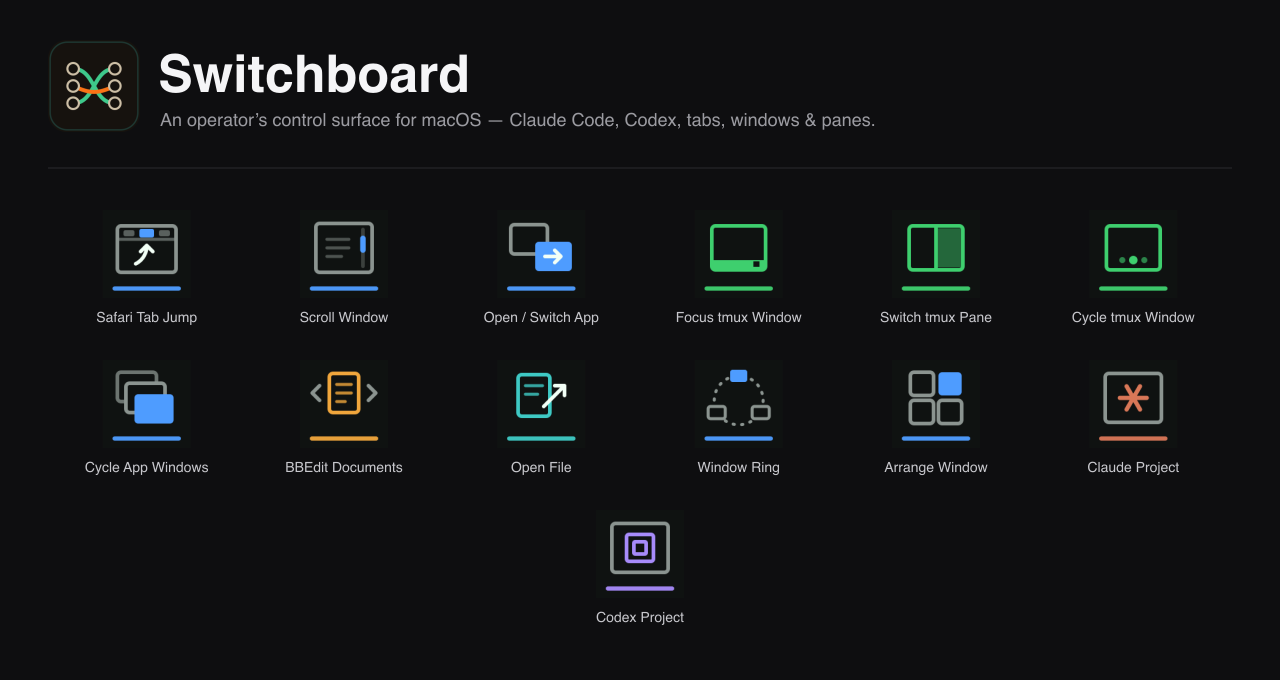
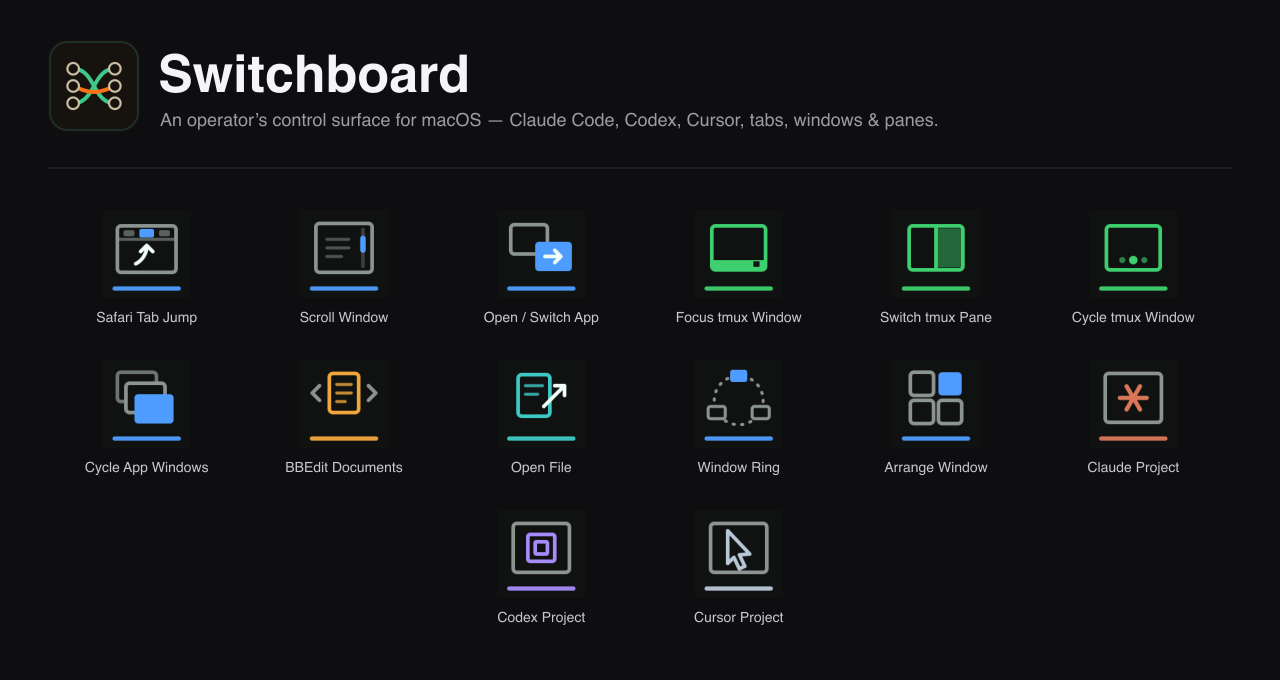
docs: document Cursor Project and the traps it exposed
README: fourteen actions, a Cursor CLI entry, and an explicit statement of
the one honest limit — amber is tmux-only, because Cursor writes nothing
to disk that separates "waiting for your approval" from "still thinking".
Hero regenerated from the manifest, subtitle updated. Test count 528.

CLAUDE.md records the gotchas that cost the most time, so the next agent
does not rediscover them: the truncated `ps -o comm=`, the worker child
that masquerades as a second session, the append-after-execution
transcript, the lossy truncated-with-hash project folder names, and the
fact that a scan defaulting to a path under ~ is untestable — the first
cursor-scan tests silently read the operator's real ~/.cursor and passed
on live data.

Claude-Session: https://claude.ai/code/session_01MxdqxTZqV1P1hQimSUKL1H

Changed region(s): [[0.375, 0.7412, 0.625, 0.9265], [0.5312, 0.1544, 0.7188, 0.1853]]

diff --git a/scripts/make-hero.py b/scripts/make-hero.py
@@ -58,7 +58,7 @@ def main() -> None:
         f'<image x="{PAD}" y="40" width="92" height="92" href="{header_icon}"/>',
         f'<text x="{PAD + 110}" y="92" fill="#f5f5f7" font-size="52" font-weight="700">Switchboard</text>',
         f'<text x="{PAD + 112}" y="126" fill="#9b9ba1" font-size="18">'
-        "An operator&#8217;s control surface for macOS — Claude Code, Codex, tabs, windows &amp; panes.</text>",
+        "An operator&#8217;s control surface for macOS — Claude Code, Codex, Cursor, tabs, windows &amp; panes.</text>",
         f'<line x1="{PAD}" y1="168" x2="{W - PAD}" y2="168" stroke="#2a2a2e" stroke-width="1"/>',
     ]
 

diff --git a/README.md b/README.md
@@ -1,10 +1,10 @@
 # Switchboard
 
-![Switchboard — a macOS Stream Deck plugin with thirteen actions: live Claude Code and Codex project keys, Safari tabs, windows, apps, tmux/iTerm2 panes, BBEdit documents, files, and window tiling](docs/switchboard-hero.png)
+![Switchboard — a macOS Stream Deck plugin with fourteen actions: live Claude Code, Codex, and Cursor project keys, Safari tabs, windows, apps, tmux/iTerm2 panes, BBEdit documents, files, and window tiling](docs/switchboard-hero.png)
 
-*An operator's control surface for macOS — routing your attention across Claude Code and Codex sessions, tabs, windows, panes, apps, documents, and files from a Stream Deck.*
+*An operator's control surface for macOS — routing your attention across Claude Code, Codex, and Cursor sessions, tabs, windows, panes, apps, documents, and files from a Stream Deck.*
 
-Ever lose a beat hunting for the right tab or window? Tactile switches beat hunting-and-clicking. Switchboard is a **macOS Stream Deck plugin** for fast context-switching: keep an eye on your **Claude Code** and **Codex CLI** projects from the deck, see whether each needs you, and press to raise its exact terminal session. Jump to **Safari** tabs (with multi-account **Gmail**/**Calendar** presets), switch and cycle **app windows**, tile and ring **windows**, drive **tmux** windows and panes (raising the right **iTerm2** window as you go), move between **BBEdit** documents, and open files by wildcard pattern — all from Stream Deck keys and dials.
+Ever lose a beat hunting for the right tab or window? Tactile switches beat hunting-and-clicking. Switchboard is a **macOS Stream Deck plugin** for fast context-switching: keep an eye on your **Claude Code**, **Codex CLI**, and **Cursor CLI** projects from the deck, see whether each needs you, and press to raise its exact terminal session. Jump to **Safari** tabs (with multi-account **Gmail**/**Calendar** presets), switch and cycle **app windows**, tile and ring **windows**, drive **tmux** windows and panes (raising the right **iTerm2** window as you go), move between **BBEdit** documents, and open files by wildcard pattern — all from Stream Deck keys and dials.
 
 ---
 
@@ -20,13 +20,16 @@ Read the full story in the flagship essay → [I Directed an AI to Ship Real Sof
 
 ## What it does
 
-Thirteen actions, grouped by what they route your attention to.
+Fourteen actions, grouped by what they route your attention to.
 
 **Claude Code**
 - **Claude Project** *(key)* — a live face for a Claude Code project, wherever it runs (tmux, plain iTerm2, or Terminal.app): the spark shows working (amber, turning) vs waiting for your input (white, still), the bar lights when your keystrokes would land in that session, and pressing raises the hosting window. Hold to capture the frontmost session's project.
 
 **Codex CLI**
 - **Codex Project** *(key)* — a live face for an interactive Codex CLI session in tmux, plain iTerm2, or Terminal.app: blue means working, amber means blocked on your approval/input, white means ready, and gray means unknown or ambiguous. Press to raise its terminal and exact tmux pane; hold to capture the frontmost session.
+
+**Cursor CLI**
+- **Cursor Project** *(key)* — a live face for an interactive Cursor CLI (`cursor-agent`) session in tmux, plain iTerm2, or Terminal.app: blue means a turn is running, amber means Cursor is waiting for you to approve a command, white means the prompt is idle, and gray means unknown or ambiguous. Press to raise its terminal and exact tmux pane; hold to capture the frontmost session. (Amber is tmux-only — see below.)
 
 **Safari**
 - **Safari Tab Jump** *(key)* — jump to an open Safari tab, or open it if it isn't there yet. Built-in presets for multi-account Gmail and Google Calendar, plus custom sites and private-window targets. URL matching supports `*` wildcards. Hold the key to capture the current front tab into the button.
@@ -53,7 +56,9 @@ Thirteen actions, grouped by what they route your attention to.
 
 ## Live on the deck
 
-The **Focus tmux Window**, **Claude Project**, and **Codex Project** keys render live. Each tmux key is a miniature tmux pane whose status bar lights up exactly when that target would receive your keystrokes. Claude Project tracks Claude Code's working/waiting state; Codex Project distinguishes working, blocked on you, ready, and unknown, and binds to a captured session so two Codex sessions in one directory are never silently confused. Both project keys work under tmux, plain iTerm2, or Terminal.app and only observe and focus — they never drive the coding agent itself.
+The **Focus tmux Window**, **Claude Project**, **Codex Project**, and **Cursor Project** keys render live. Each tmux key is a miniature tmux pane whose status bar lights up exactly when that target would receive your keystrokes. Claude Project tracks Claude Code's working/waiting state; Codex Project and Cursor Project each distinguish working, blocked on you, ready, and unknown, and bind to a captured session so two sessions in one directory are never silently confused. All three project keys work under tmux, plain iTerm2, or Terminal.app and only observe and focus — they never drive the coding agent itself.
+
+One honest limit on **Cursor Project**: Cursor writes nothing to disk that separates "waiting for your approval" from "still thinking", so that amber state is read from the terminal itself and is therefore available for **tmux-hosted sessions only**. Elsewhere an approval prompt reads as blue (running). Detection is deliberately narrow, so a future Cursor release that rewords its prompt makes amber stop appearing rather than start lying.
 
 ![Five states of a live tmux key: focused with Claude working, background with Claude working, background with Claude ready for input, background with no Claude, and a window that no longer exists](docs/tmux-live-keys.png)
 
@@ -156,7 +161,7 @@ Licensed under the **MIT License** — see [`LICENSE`](LICENSE).
 
 ## Built with
 
-Elgato Stream Deck SDK v2 · TypeScript / Node · 476 passing tests · `streamdeck validate` runs in the build · native helpers are universal (Apple Silicon + Intel), Developer ID signed & notarized.
+Elgato Stream Deck SDK v2 · TypeScript / Node · 528 passing tests · `streamdeck validate` runs in the build · native helpers are universal (Apple Silicon + Intel), Developer ID signed & notarized.
 
 ```bash
 npm install

diff --git a/CLAUDE.md b/CLAUDE.md
@@ -6,7 +6,7 @@ Built with the Elgato SDK v2 (TypeScript/Node). The plugin **UUID is
 Don't change it casually — installed buttons reference it, so a change orphans
 configured keys unless migrated. `scripts/rename.sh` performs such a migration
 (it rewrites the UUIDs in the Stream Deck profile store so settings survive); see
-that script before ever renaming again. Twelve actions today (the manifest is the
+that script before ever renaming again. Fourteen actions today (the manifest is the
 source of truth — `scripts/make-hero.py` reads it).
 
 ## Layout
@@ -21,6 +21,9 @@ src/
   mac/                      # PURE, tested logic (no SDK, no I/O)
     targets/safari ...      # see files below
   safari/                   # Safari tab logic (targets.ts, applescript.ts, runner re-export)
+  mac/cursor-*.ts           # Cursor CLI detection: cursor-scan (pgrep -f the installed
+                            #   versions path -> ps -o pid=,ppid=,tty=,args= -> lsof), cursor-project
+                            #   (identity + turn_ended state + approval-prompt scrape + key face)
   mac/claude-*.ts           # Claude Code detection: claude-scan (ps→batched lsof +
                             #   shell-snapshot busy children = "N shells still running"; pgrep
                             #   misses ancestors), claude-state (title marker: braille=working,
@@ -72,7 +75,7 @@ terminal.
 
 ```
 npm run typecheck     # tsc --noEmit
-npm test              # vitest (pure modules) — 435 tests today
+npm test              # vitest (pure modules) — 528 tests today
 npm run build         # rollup -> bin/plugin.js, then postbuild runs `streamdeck validate`
 npm run build:helper  # build all 3 Swift helpers UNIVERSAL (scripts/build-helpers.sh);
                       #   auto-signs with Developer ID if that cert is in the keychain
@@ -173,6 +176,34 @@ installed copy ships stale code. The `build` step is gated by `streamdeck valida
 - **README figures are code-generated.** docs/tmux-live-keys.png, claude-project-keys.png,
   claude-spark.gif, and dial-strips.png render FROM the real image builders (tsx snippet +
   inkscape) — regenerate them whenever a key-face design changes, or the README silently lies.
+- **Cursor CLI (`cursor-agent`) breaks three assumptions Codex taught us.** All
+  measured against 2026.08.11-e8db854, all of them cost time here:
+  (a) **`ps -o comm=` is TRUNCATED** to 16 chars for these processes (it returns
+  `/Users/johnknox/`), so identity must be read from `args` — Codex's
+  `basename(comm) === "codex"` gate does not port.
+  (b) **Every session forks a long-lived `node .../index.js` worker child** that
+  matches the same argv pattern AND shares the session's tty and chat store. Left
+  in, one session looks like two and every key goes ambiguous-gray; filter any
+  candidate whose ppid is also a candidate (`withoutWorkerChildren`).
+  (c) **Transcript records are appended AFTER a tool runs, not when it is
+  requested.** While Cursor holds on an approval prompt its transcript contains
+  only the user's message — byte-identical to "still thinking". Tail SHAPE
+  therefore cannot decide working-vs-blocked; only the explicit
+  `{"type":"turn_ended","status":…}` terminator is trustworthy, and it means
+  "the prompt is idle".
+- **Cursor's blocked state is only visible on screen.** Nothing on disk separates
+  "waiting for your approval" from "still thinking", so `cursor-project.ts`
+  matches Cursor's approval block in `tmux capture-pane` output — which makes
+  amber **tmux-only**, and it fails SAFE: unrecognised wording degrades to
+  "working", never to a false "needs you".
+- **Cursor's project-folder names are lossy — never derive one from a cwd.** A
+  long path is truncated and given a hash suffix
+  (`private-tmp-claude-501-Users-johnknox-code-switchbo-157e277`). Look transcripts
+  up by the exact session UUID, enumerating `~/.cursor/projects/*` (`findTranscriptPath`).
+- **A scan that reads `~/…` by default is untestable — inject the base path.** The
+  first cursor-scan tests silently read the OPERATOR'S REAL `~/.cursor/projects`
+  and passed/failed on live data; `scanCursorSnapshot(exec, projectsBase)` takes the
+  root so fixtures stay hermetic. Same trap applies to any future home-dir probe.
 - **Verifying tmux syntax:** use a scratch session (`tmux new-session -d -s __sdtest` …
   `kill-session -t __sdtest`) — never experiment on live sessions.
 - **Two distinct macOS permissions, classified separately** in `applescript/runner.ts`:
